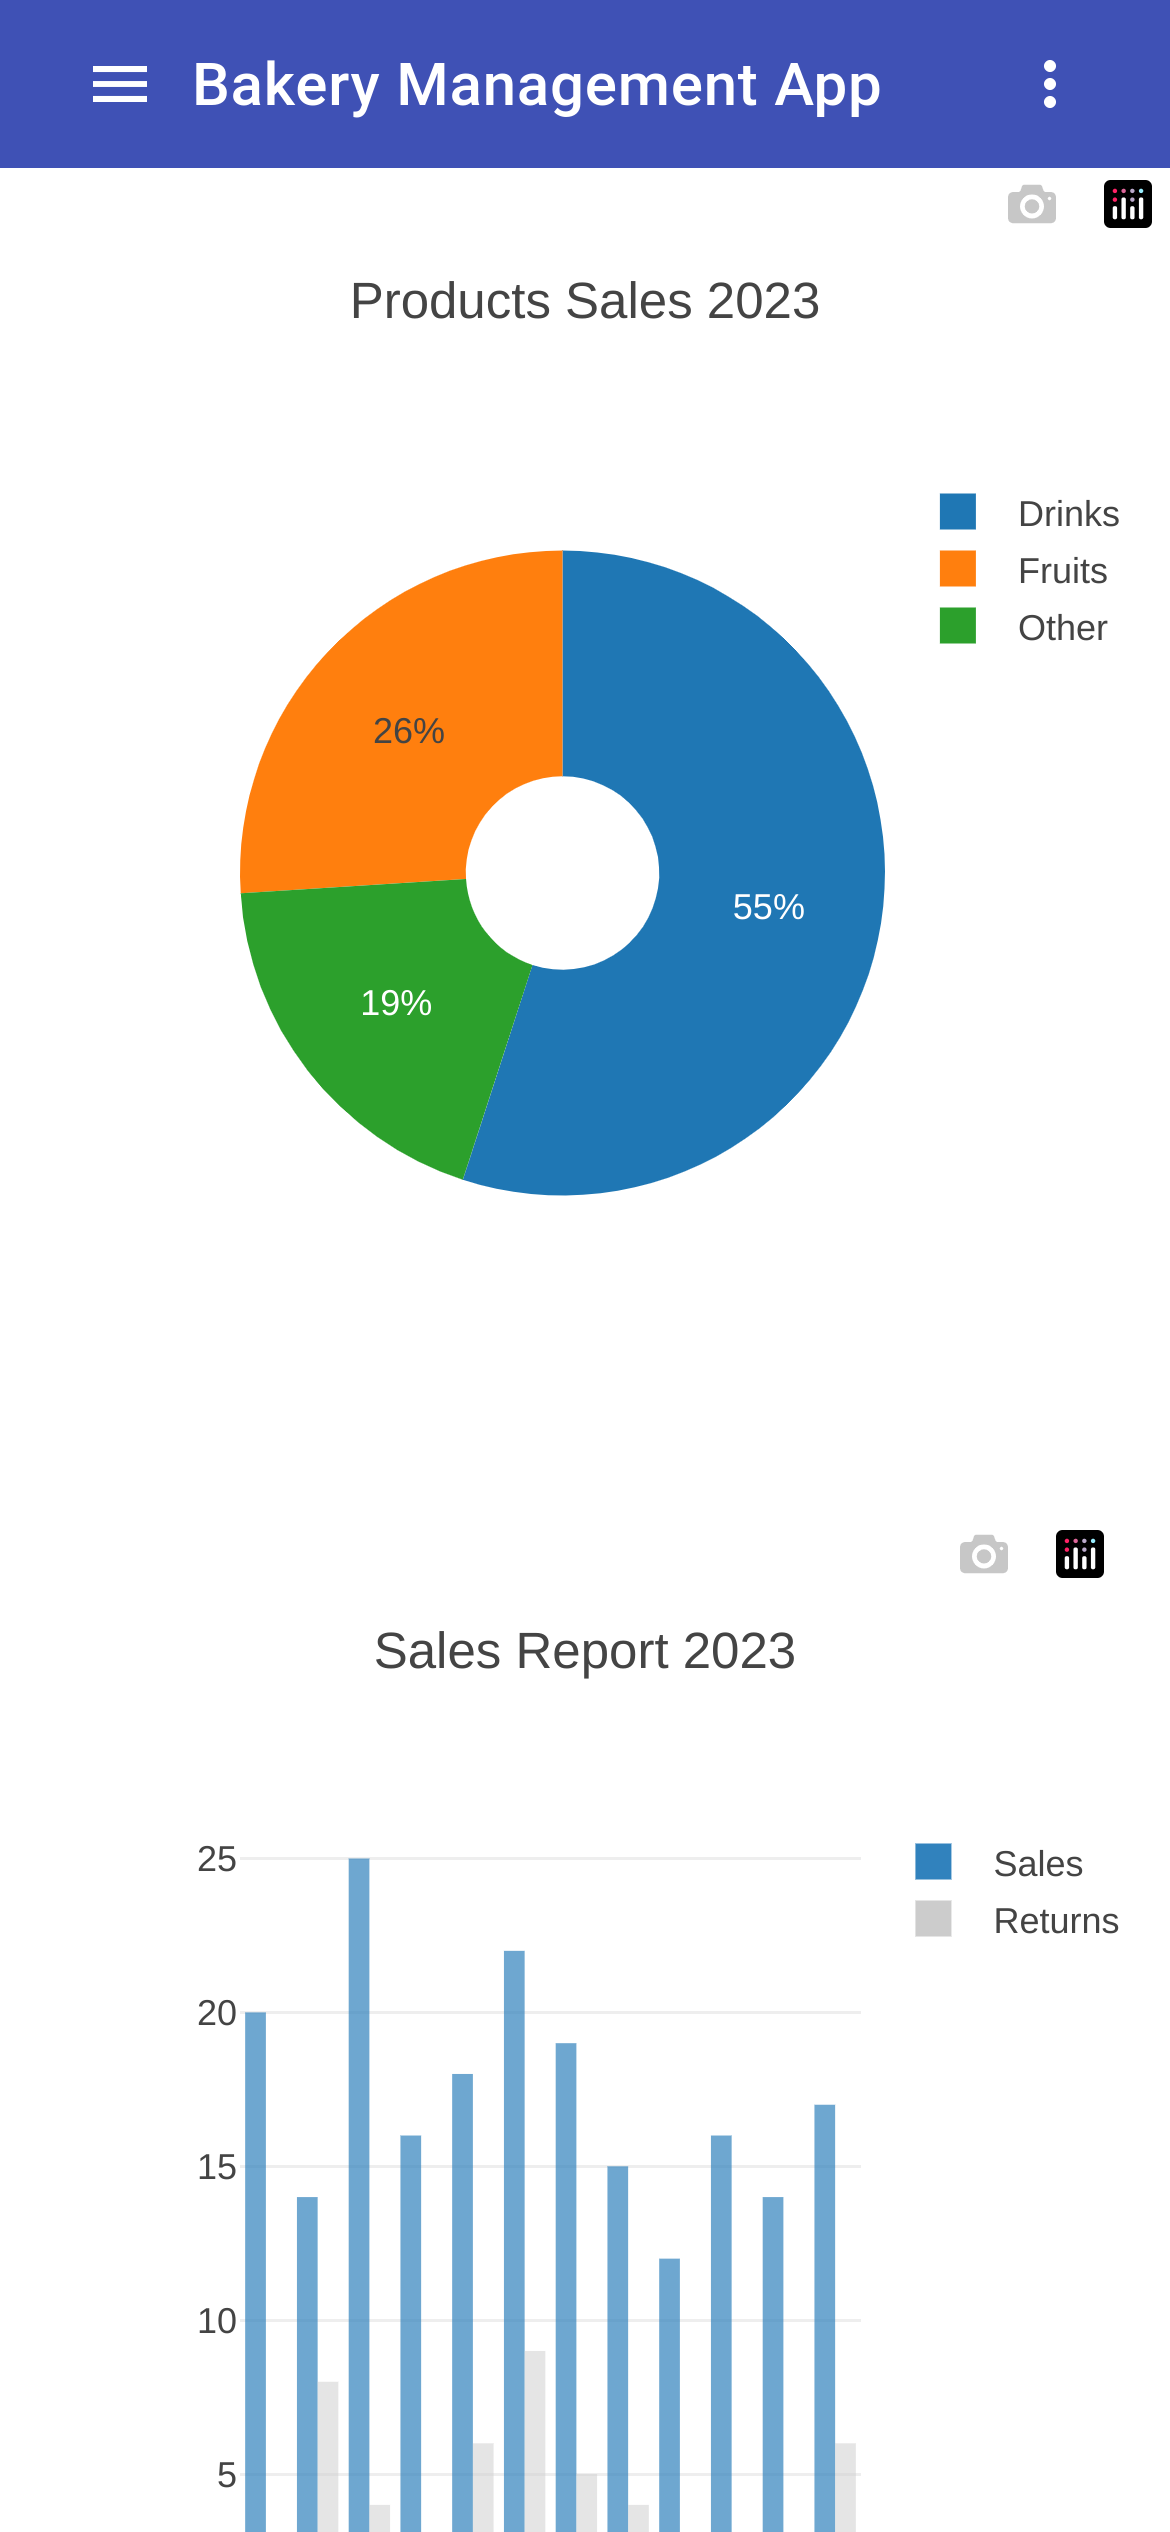
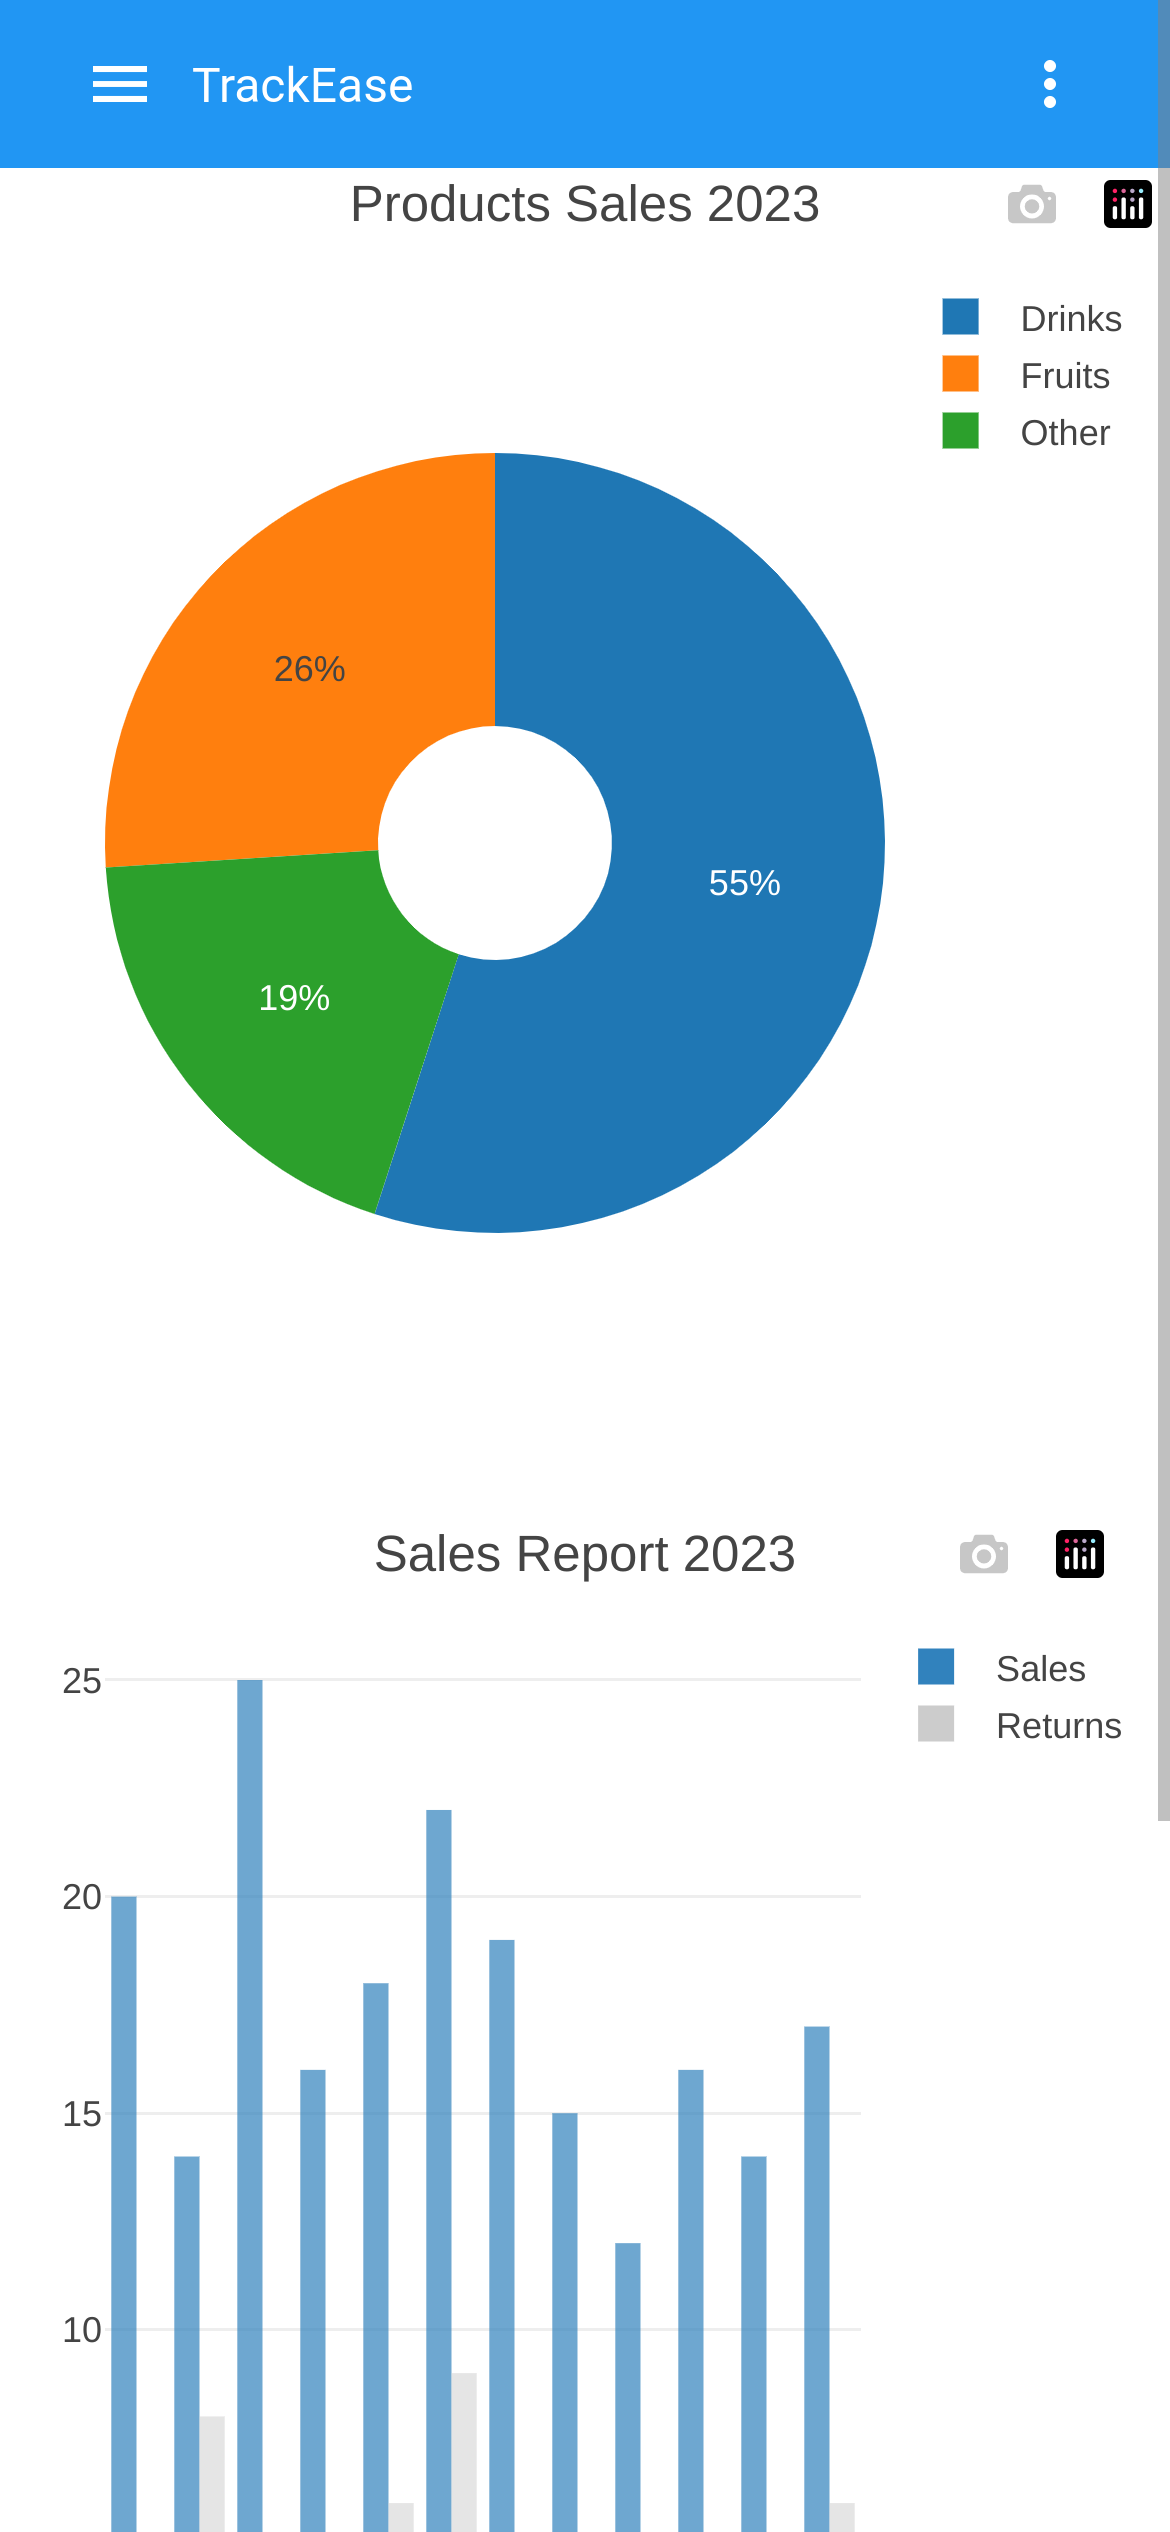
read me

diff --git a/src/shared/components/top-bar/top-bar.component.scss b/src/shared/components/top-bar/top-bar.component.scss
@@ -29,12 +29,11 @@
 
         mat-form-field {
             width: 100%;
+            padding: 0px;
 
             .top-bar-search-container-form-search-icon {
                 cursor: pointer;
-                padding-right: 15px;
-                position: relative;
-                bottom: 2px;
+                padding-right: 10px;
                 opacity: 0.7;
             }
 
@@ -43,7 +42,7 @@
                 font-size: 24px !important;
                 margin-right: 10px;
                 cursor: pointer;
-            }
+            } 
         }
     }
 

diff --git a/src/styles.scss b/src/styles.scss
@@ -1,4 +1,12 @@
-/* You can add global styles to this file, and also import other style files */
+@import '@angular/material/theming';
+
+$custom-primary: mat-palette($mat-blue, 500);
+$custom-accent: mat-palette($mat-amber);
+$custom-warn: mat-palette($mat-red);
+
+$custom-theme: mat-light-theme($custom-primary, $custom-accent, $custom-warn);
+@include angular-material-theme($custom-theme);
+
 
 html, body { height: 100%; }
 body { margin: 0; font-family: Roboto, "Helvetica Neue", sans-serif; }

diff --git a/src/app/components/settings/settings.component.html b/src/app/components/settings/settings.component.html
@@ -1,5 +1,5 @@
 <div class="settings-container">
-    <mat-card>
+    <!-- <mat-card>
         <mat-card-content class="notifications-toggle-card">
             <div>
                 <h2>Notifications</h2>
@@ -16,7 +16,7 @@
                 </div>
             </div>
         </mat-card-content>
-    </mat-card>
+    </mat-card> -->
 
     <mat-card>
         <mat-card-content class="theme-toggle-card">

diff --git a/README.md b/README.md
@@ -12,7 +12,7 @@
   * [:signal_strength: Technologies](#signal_strength-technologies)
   * [:floppy_disk: Setup](#floppy_disk-setup)
   * [:computer: Code Examples](#computer-code-examples)
-  <!-- * [:cool: Features](#cool-features) -->
+  * [:cool: Features](#cool-features)
   * [:clipboard: Status & To-Do List](#clipboard-status--to-do-list)
   <!-- * [:file_folder: License](#file_folder-license) -->
   * [:envelope: Contact](#envelope-contact)
@@ -25,14 +25,11 @@
 
 <div style="display: grid; grid-template-columns: repeat(auto-fill, minmax(200px, 1fr)); gap: 16px;">
     <img src="screenshots/login.png" alt="Login" width="200"/>
-    <img src="screenshots/forgotPassword.png" alt="Forgot Password" width="200"/>
     <img src="screenshots/chart.png" alt="Chart" width="200"/>
     <img src="screenshots/profile.png" alt="Profile" width="200"/>
-    <img src="screenshots/productList.png" alt="Products List" width="200"/>
     <img src="screenshots/filterOrders.png" alt="Filter Orders" width="200"/>
     <img src="screenshots/downloadedPDF.png" alt="Downloaded PDF" width="200"/>
-    <img src="screenshots/createOrder.png" alt="Create Order" width="200"/>
-    <img src="screenshots/clientList.png" alt="Client List" width="200"/>
+    <img src="screenshots/orderList.png" alt="Order List" width="200"/>
 </div>
 
 ## :signal_strength: Technologies
@@ -43,8 +40,10 @@
 
 ## :floppy_disk: Setup
 
+* git clone `https://github.com/ermalCerhozi/productDeliveryFE.git`.
+* Switch to the specific version of Node.js `nvm use`.
 * Install dependencies using `yarn install`.
-* Run `ng serve` for a dev server.
+* Run `ng serve`.
 * Navigate to `http://localhost:4200/`. The app will automatically reload if you change any of the source files.
 
 ## :computer: Code Examples
@@ -65,16 +64,16 @@
 </ng-template>
 ```
 
-<!-- ## :cool: Features
+## :cool: Features
 
-* All fields are required, the email field must be a valid email address and the password fiesld must have a min length of 6.
-* A custom validator and directive called MustMatch is used to validate that the confirm password and password fields match.
-* The form validates on submit rather than as soon as each field is changed, this is implemented using the f.submitted property of the #f="ngForm" template variable which is true after the form is submitted for the first time. -->
+* Dark Mode.
+* Slider password strength indicator.
+* Sales reports with graps.
 
 ## :clipboard: Status & To-Do List
 
 * Status: Working.
-* To-Do: Theming, translations, analytics.
+* To-Do: Translations, analytics.
 
 <!-- ## :file_folder: License
 
